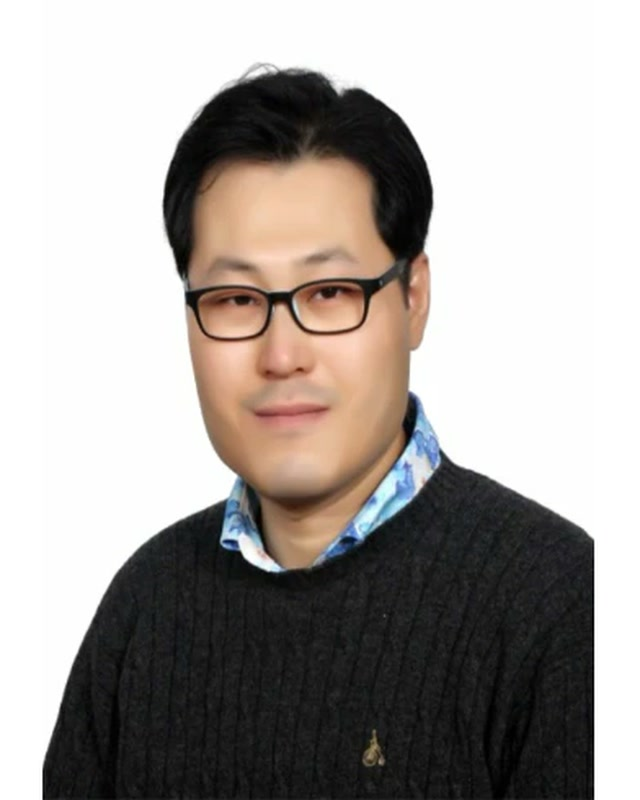
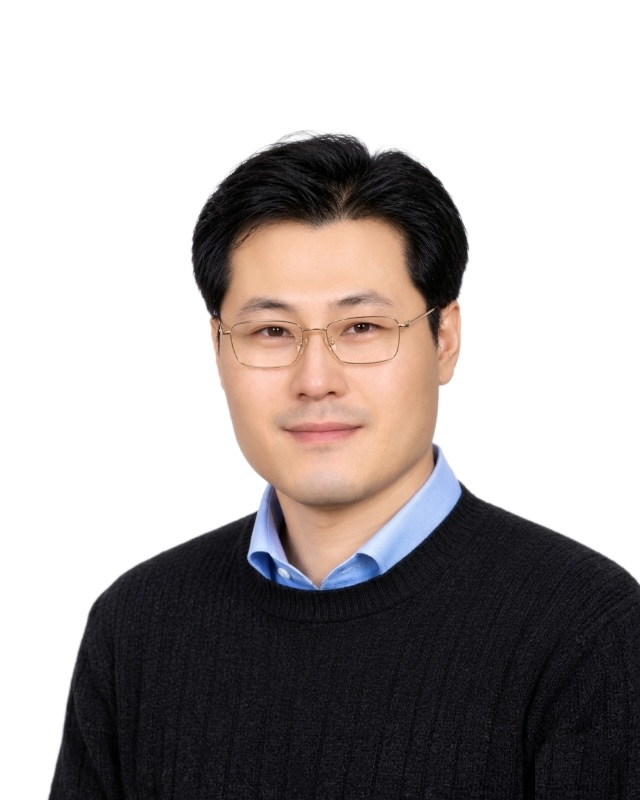
박성하T 사진 교체·미래탐구 추가

diff --git a/index.html b/index.html
@@ -662,7 +662,7 @@ const T=[
  {n:'고연승',s:'영어',t:'영어 · 메디컬 핵심반',c:['연세대학교 영어영문학과 졸업 · 영어교육학과 석사','현) EBSi 수능 라인업 대표 강사','현) 대치 독수리 의대관','전) 전국모의고사 출제위원','전) 중동고 정교사','강남대성 S2 출강 및 담임','2024 수능연계 교재 『수능완성』 집필']},
  {n:'고아름',s:'탐구',t:'통합사회',c:[]},
  {n:'강윤구',s:'수학',c:['서울대학교 기계항공공학부','이투스 온라인 수학 인강 강사','공인회계사(CPA) 합격','의치대생 · 서울대생 최근 5년간 100명 이상 제자 배출']},
- {n:'박성하',s:'수학',t:'수학',c:['서울대학교 수학교육과 졸업','종로학원','천재교육 공저','『우리 아이 마음에 수학을 심다』 (유페이퍼)','종로 모의고사 출제']},
+ {n:'박성하',s:'수학',t:'수학',c:['서울대학교 수학교육과 졸업','종로학원','미래탐구','천재교육 공저','『우리 아이 마음에 수학을 심다』 (유페이퍼)','종로 모의고사 출제']},
  {n:'이정태',s:'탐구',t:'통합사회 · 인문논술',c:['서울대학교 문화인류학과 · 미시간주립대 석사','아폴론 · 이슈앤스카이','전) 중앙일보 기자','『밥상에 차려진 통합논술』']},
  {n:'안재훈',s:'논술',t:'인문 · 약술국어',c:['서울대학교 철학과 · 서울대 행정대학원','하나고 · 포항제철고 출강','저서 다수']},
  {n:'강명필',s:'논술',t:'인문논술',c:['서울대학교 인류학과 · 연세대 MBA','다빈치논술 · 이슈앤투데이']},
@@ -676,7 +676,7 @@ const T=[
 ];
 const list=document.getElementById('tlist');
 /* 사진: img/teachers/이름.jpg 를 PHOTO 에 적으면 사진, 없으면 성 한 글자 */
-const PHOTO={};['류성훈','이태형','장의순','김호랑','고연승','신연우','권현석','정민','홍진수','최정윤','이예섭','정지만','김현중','임현철','이창환','최현재','김경한','문지현','박정은','박남진','최한근','안민형','강윤구','박성하'].forEach(n=>PHOTO[n]='img/teachers/'+n+'.jpg?v=1126f');
+const PHOTO={};['류성훈','이태형','장의순','김호랑','고연승','신연우','권현석','정민','홍진수','최정윤','이예섭','정지만','김현중','임현철','이창환','최현재','김경한','문지현','박정은','박남진','최한근','안민형','강윤구','박성하'].forEach(n=>PHOTO[n]='img/teachers/'+n+'.jpg?v=1127a');
 /* 줄 순서: 1줄 국어 · 2줄 수학 · 3줄 영어 · 4줄 탐구 · 논술 (11/19 사장님 요청)
    같은 과목 안에서는 (탐구는 통합과학·통합사회·사탐 순으로 묶고) 사진 있는 강사 먼저, 나머지는 배열 순서 그대로 */
 const SUBJ=['국어','수학','영어','탐구','논술'];
